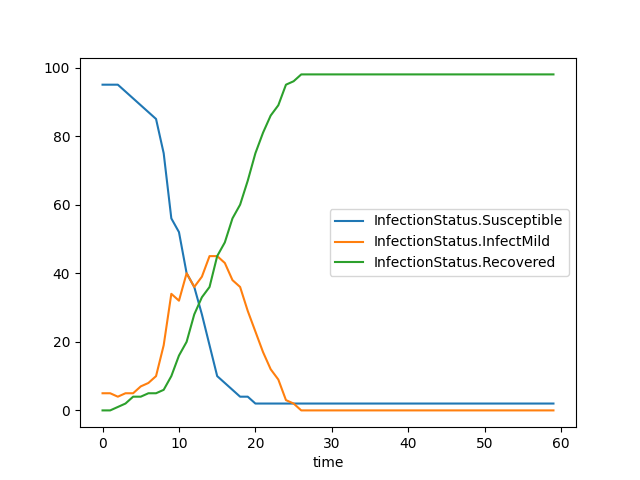
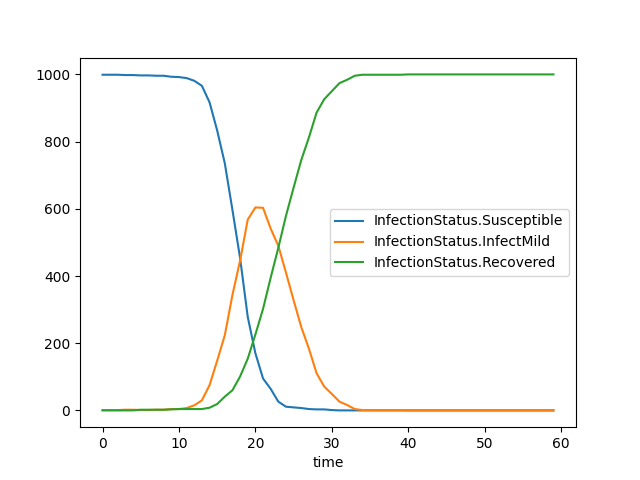
deleted covidsim distance metric

diff --git a/python_examples/simulation_flow.py b/python_examples/simulation_flow.py
@@ -10,26 +10,26 @@ import pyEpiabm as pe
 
 # Method to set the seed at the start of the simulation, for reproducibility
 
-pe.routine.Simulation.set_random_seed(seed=42)
+# pe.routine.Simulation.set_random_seed(seed=42)
 
 # Pop_params are used to configure the population structure being used in this
 # simulation.
 
-pop_params = {"population_size": 100, "cell_number": 1,
-              "microcell_number": 1, "household_number": 20,
+pop_params = {"population_size": 1000, "cell_number": 10,
+              "microcell_number": 1, "household_number": 5,
               "place_number": 2}
 
 pe.Parameters.instance().time_steps_per_day = 1
-pe.Parameters.instance().base_reproduction_num = 2.8
+pe.Parameters.instance().basic_reproduction_num = 2.8
 
 # Create a population based on the parameters given.
 population = pe.routine.ToyPopulationFactory().make_pop(pop_params)
-cell = population.cells[0]
+[cell.set_location((i, 0)) for i, cell in enumerate(population.cells)]
 
 # sim_ and file_params give details for the running of the simulations and
 # where output should be written to.
 sim_params = {"simulation_start_time": 0, "simulation_end_time": 60,
-              "initial_infected_number": 5}
+              "initial_infected_number": 1}
 
 file_params = {"output_file": "output.csv",
                "output_dir": "python_examples/simulation_outputs",
@@ -42,7 +42,8 @@ sim.configure(
     population,
     [pe.sweep.InitialInfectedSweep()],
     [pe.sweep.UpdatePlaceSweep(), pe.sweep.HouseholdSweep(),
-     pe.sweep.PlaceSweep(), pe.sweep.QueueSweep(),
+     pe.sweep.PlaceSweep(), pe.sweep.SpatialSweep(),
+     pe.sweep.QueueSweep(),
      pe.sweep.HostProgressionSweep()],
     sim_params,
     file_params)
@@ -60,3 +61,4 @@ df.plot(x="time", y=["InfectionStatus.Susceptible",
                      "InfectionStatus.InfectMild",
                      "InfectionStatus.Recovered"])
 plt.savefig("python_examples/simulation_outputs/simulation_flow_SIR_plot.png")
+plt.show()

diff --git a/pyEpiabm/pyEpiabm/utility/distance_metrics.py b/pyEpiabm/pyEpiabm/utility/distance_metrics.py
@@ -28,14 +28,3 @@ class DistanceFunctions:
         :rtype: float
         """
         return np.linalg.norm(np.abs(np.asarray(loc1) - np.asarray(loc2)))
-
-    def dist_covidsim(loc1: typing.Tuple[float, float],
-                      loc2: typing.Tuple[float, float] = (0, 0)):
-        """Calculates distance
-
-        :param loc1: (x,y) coordinates of the first place
-        :type loc1: Tuple[float, float]
-        :param loc2: (x,y) coordinates of the second place
-        :type loc2: Tuple[float, float]
-        """
-        pass
